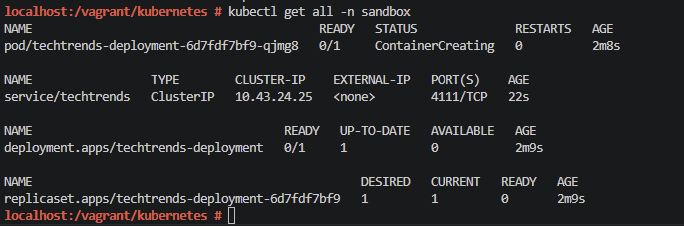
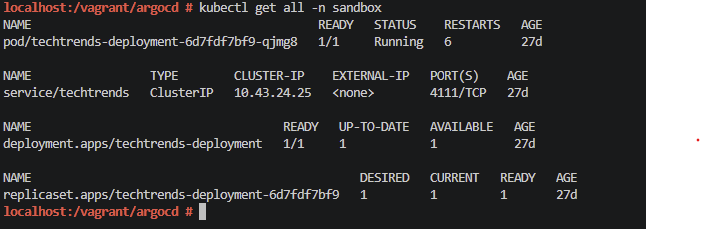
fixed submistion

diff --git a/project/techtrends/app.py b/project/techtrends/app.py
@@ -44,13 +44,16 @@ def index():
 def post(post_id):
     post = get_post(post_id)
     if post is None:
+      app.logger.error(f'Article with id {post_id} not found!')
       return render_template('404.html'), 404
     else:
+      app.logger.info(f'Article "{post["title"]}" retrieved!')
       return render_template('post.html', post=post)
 
 # Define the About Us page
 @app.route('/about')
 def about():
+    app.logger.info('About Us page retrieved!')
     return render_template('about.html')
 
 @app.route('/healthz')
@@ -60,7 +63,7 @@ def healthz():
         status=200,
         mimetype='application/json'
     )
-
+    app.logger.info('Status Request successful')
     return response
 
 @app.route('/metrics')
@@ -74,7 +77,7 @@ def metrics():
         status=200,
         mimetype='application/json'
     )
-
+    app.logger.info('Metrics request successful')
     return response
 
 # Define the post creation functionality 
@@ -92,7 +95,7 @@ def create():
                          (title, content))
             connection.commit()
             connection.close()
-
+            app.logger.info(f'Article "{title}" created!')
             return redirect(url_for('index'))
 
     return render_template('create.html')
